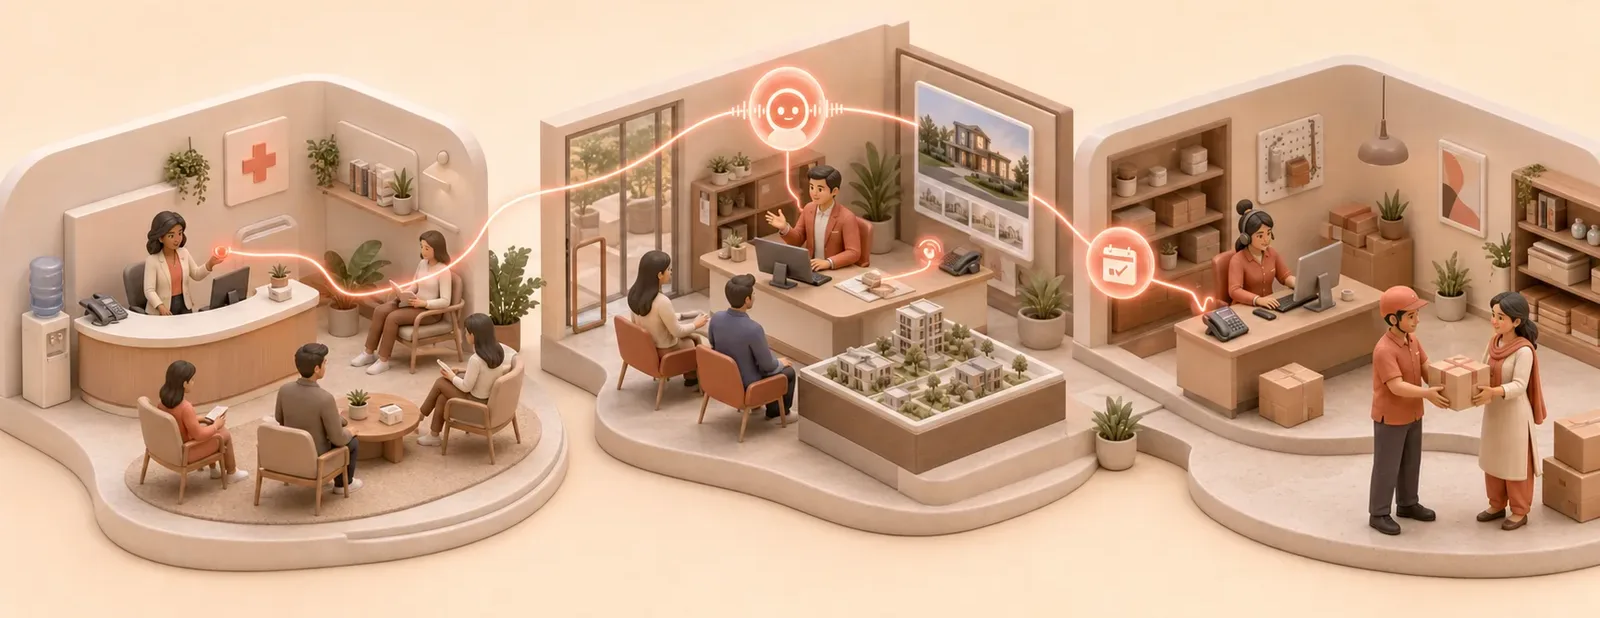
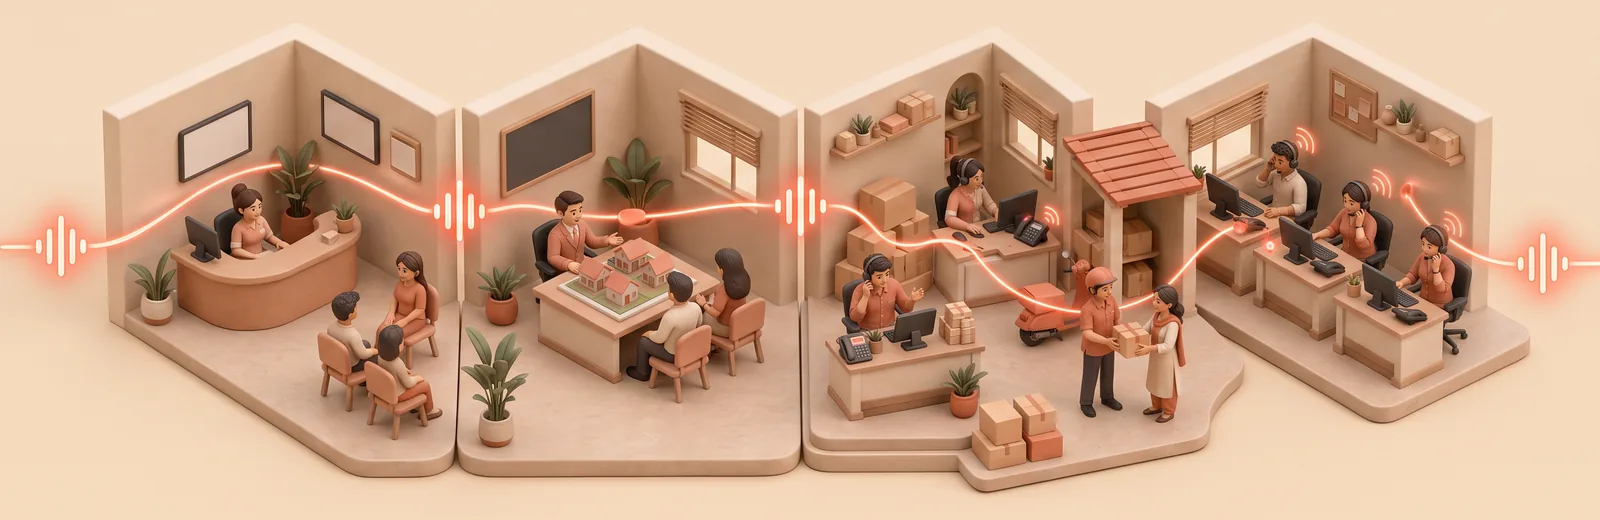
Put all four rooms in the world plate
The section is headed "front desk · sales desk · support desk" and the picture
under it showed a clinic, a property office and a commerce desk — no sales desk,
and no sign of the outbound floor added earlier today. The one image whose whole
job is showing the world at once was a room short.

Four rooms now, left to right: the clinic reception with patients waiting, the
property office showing a scale model to a seated couple, the commerce support
desk with the scooter and the handover at the door, and the outbound sales floor
with three agents each mid-call. One continuous coral waveform runs the full
width and ties them together, which is the argument the section is making.

Cropped to content on the way in. The render came back 23% empty at the top and
24% at the bottom — the same waste as the plate it replaces, and the reason that
section had 230px of dead air before.

12 credits, part of a 24-credit run.

The other half of that run is not used and should not be. It was meant to
replace the receipt plate, whose background carries blurred ghost interface
panels, and it came back as a near-duplicate of the commerce room: the same
headset agents, the same scooter, the same carton changing hands at the door.
The reference image drove it again. Two nearly identical rooms in one story is
worse than the ghosts, so the receipt chapter is unchanged and the fault stands
open.

diff --git a/components/marketing/LivingProofWorld.tsx b/components/marketing/LivingProofWorld.tsx
@@ -74,9 +74,9 @@ export function LivingProofWorld() {
         <div className="living-world-stage">
           <Image
             src="/media/home/living-operations-world.webp"
-            alt="Connected miniature scenes of a clinic reception, property sales office, and commerce support team"
+            alt="Connected miniature scenes of a clinic reception, a property sales office, a commerce support desk and an outbound sales floor"
             width={1600}
-            height={618}
+            height={520}
             sizes="(max-width: 768px) 150vw, 1200px"
             className="living-world-image"
             priority
